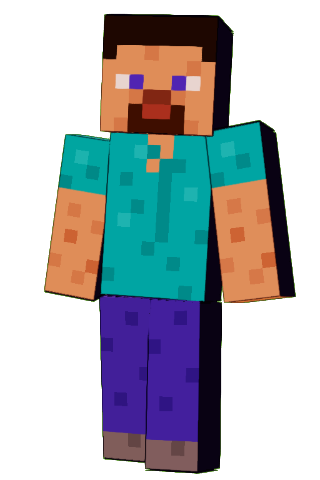
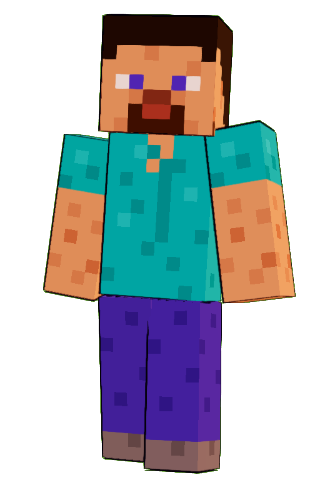
v0.6.1: Looser cloth physics, Steve textured on all sides
- Flowing clothes (Zero's cape, 2B's skirt, Joker's coat tails, lab coat, dress panels,
  long hair, braid, ties, bandana ends) lag behind, swing and flutter with movement;
  airflow at speed can now lift the cape and coat tails backward
- Steve's side faces were turned inward and rendered dark; they now face outward and
  show the hair, skin, sleeves, jeans and shoes

diff --git a/src/designs/zero.js b/src/designs/zero.js
@@ -133,7 +133,7 @@ export function buildZero(K) {
     addCloth(K, {
       anchor: K.hips, rows: 11, cols: 7, grid: panel(sz, 11, 7, 0.975, len + 0.04, 0.1, w1, 0.03), outer, inner,
       colliders: ['legs', 'hips'], colliderOpts: { thigh: 0.084, shin: 0.06, hip: 0.098, hipW: 0.065 }, pad: 0.012,
-      shape: 0.035, maxDev: (t) => 0.01 + 0.3 * t, inertia: 0.5, wind: 0.5, gust: 0.35, stretch: 1, bend: 0.4,
+      shape: 0.014, maxDev: (t) => 0.01 + 0.45 * t, inertia: 0.78, wind: 0.6, gust: 0.4, stretch: 1, bend: 0.35,
     });
   }
   // Umhang von den Schultern bis zu den Waden
@@ -151,8 +151,8 @@ export function buildZero(K) {
     },
     outer: cOuter, inner: cInner,
     pinned: (r, c) => r === 0 || (r === 1 && Math.abs(c - (capeCols - 1) / 2) < 3),
-    colliders: ['torso', 'hips', 'legs', 'shoulders'], colliderOpts: { torso: 0.12, hip: 0.1, hipW: 0.065, thigh: 0.086, shin: 0.062 }, pad: 0.014,
-    shape: 0.02, maxDev: (t) => 0.02 + 0.42 * t, inertia: 0.45, wind: 0.55, gust: 0.4, stretch: 1, bend: 0.3,
+    colliders: ['torso', 'hips', 'legs', 'shoulders', 'head'], colliderOpts: { torso: 0.12, hip: 0.1, hipW: 0.065, thigh: 0.086, shin: 0.062 }, pad: 0.014,
+    shape: 0.009, maxDev: (t) => 0.02 + 0.9 * t, inertia: 0.84, wind: 0.75, gust: 0.45, stretch: 1, bend: 0.6, iterations: 6,
   });
   // Schließe auf der linken Schulter
   P.add(K.chest, RB(0.05, 0.05, 0.016, 0.008), K.mat(C.silver, { rim: 0.45 }), { pos: [-0.14, 1.27, -0.02], rot: [0.3, 0.2, 0.5], hull: 0.002 });
@@ -222,7 +222,7 @@ export function buildZero(K) {
     outer: K.mat('#ffffff', { vertexColors: true, side: THREE.DoubleSide, rim: 0.3, rimColor: '#ffd6f0' }), inner: null,
     pinned: (r) => r <= 1,
     colliders: ['torso', 'shoulders'], colliderOpts: { torso: 0.105 }, pad: 0.018,
-    shape: 0.03, maxDev: (t) => 0.02 + 0.25 * t, inertia: 0.5, wind: 0.45, gust: 0.35, stretch: 1, bend: 0.5,
+    shape: 0.014, maxDev: (t) => 0.02 + 0.4 * t, inertia: 0.74, wind: 0.55, gust: 0.35, stretch: 1, bend: 0.45,
   });
   // zwei lange Strähnen vorne über den Schultern
   for (const s of [-1, 1]) {
@@ -236,7 +236,7 @@ export function buildZero(K) {
       radius: (t, a) => (0.018 - 0.012 * t) * (1 + 0.5 * Math.cos(a) ** 2),
       material: K.mat(C.hair, { rim: 0.3, rimColor: '#ffd6f0' }),
       colliders: ['torso', 'shoulders'], colliderOpts: { torso: 0.1 }, pad: 0.03,
-      pinned: (r) => r === 0, shape: 0.03, maxDev: (t) => 0.03 + 0.2 * t, inertia: 0.5, wind: 0.4, bend: 0.6,
+      pinned: (r) => r === 0, shape: 0.016, maxDev: (t) => 0.03 + 0.3 * t, inertia: 0.7, wind: 0.5, bend: 0.55,
     });
   }
 }

diff --git a/src/cloth.js b/src/cloth.js
@@ -161,7 +161,7 @@ export class Cloth {
       const k = Math.min(1, Math.hypot(ax, vy, az) / 25);
       const g = 1 + this.gust * Math.sin(this.time * 7.3) * Math.sin(this.time * 2.9 + 1.3);
       const wx = ax * this.wind * g, wy = -vy * this.wind * 0.5 * g, wz = az * this.wind * g;
-      const lim = 14 * this.wind;
+      const lim = 26 * this.wind;
       const wl = Math.hypot(wx, wy, wz), ws = wl > lim ? lim / wl : 1;
       const sway = WIND.sway * windGust(this.time) * (WIND.speed / 3.2);
       for (let i = 0; i < n; i++) {
@@ -185,7 +185,7 @@ export class Cloth {
         x[o + 2] += (x[o + 2] - xp[o + 2]) * this.damping + wz * ws * flutter * h * h;
         xp[o] = ox; xp[o + 1] = oy; xp[o + 2] = oz;
         // sanfter Zug zur Ruheform (vom Dauerwind leicht verschoben, mit leichtem Flattern)
-        const sw = sway * dev[i] * (1 + 0.2 * Math.sin(this.time * 3.1 + i * 0.37));
+        const sw = sway * Math.min(dev[i], 0.3) * (1 + 0.2 * Math.sin(this.time * 3.1 + i * 0.37));
         x[o] += (rx + WIND.dir.x * sw - x[o]) * this.shape; x[o + 1] += (ry - x[o + 1]) * this.shape; x[o + 2] += (rz + WIND.dir.z * sw - x[o + 2]) * this.shape;
       }
       for (let it = 0; it < this.iterations; it++) {

diff --git a/src/designs/makima.js b/src/designs/makima.js
@@ -84,7 +84,7 @@ export function buildMakima(K) {
     pinned: (r) => r === 0,
     outer: K.mat(C.tie, { side: THREE.DoubleSide, rim: 0.2 }), inner: null,
     colliders: ['torso'], colliderOpts: { torso: 0.088 }, pad: 0.004,
-    shape: 0.06, maxDev: (t) => 0.03 + 0.12 * t, inertia: 0.5, wind: 0.35, gust: 0.4, stretch: 1, bend: 0.5,
+    shape: 0.035, maxDev: (t) => 0.03 + 0.2 * t, inertia: 0.68, wind: 0.45, gust: 0.4, stretch: 1, bend: 0.5,
   });
 
   // Kopf: goldene Augen mit Ringen, sanftes Lächeln
@@ -127,6 +127,6 @@ export function buildMakima(K) {
     radius: (t, a) => (t > 0.9 ? 0.014 * (1 - (t - 0.9) * 6) + 0.005 : (0.03 - 0.01 * t) * (0.84 + 0.2 * Math.abs(Math.sin(a + t * 40)))),
     material: K.mat(C.hair, { rim: 0.3, rimColor: '#ffb08a' }),
     colliders: ['torso', 'shoulders'], colliderOpts: { torso: 0.1 }, pad: 0.02,
-    pinned: (r) => r === 0, shape: 0.02, maxDev: (t) => 0.06 + 0.3 * t, inertia: 0.45, wind: 0.4, gust: 0.3, bend: 0.6,
+    pinned: (r) => r === 0, shape: 0.011, maxDev: (t) => 0.06 + 0.45 * t, inertia: 0.76, wind: 0.5, gust: 0.3, bend: 0.55,
   });
 }

diff --git a/src/designs/scientist.js b/src/designs/scientist.js
@@ -50,7 +50,7 @@ export function buildScientist(K) {
     },
     colors: stripe, outer: K.mat('#ffffff', { vertexColors: true, side: THREE.DoubleSide, rim: 0.2 }), inner: null,
     colliders: ['torso'], colliderOpts: { torso: 0.124 }, pad: 0.004,
-    shape: 0.06, maxDev: (t) => 0.03 + 0.12 * t, inertia: 0.5, wind: 0.35, gust: 0.4, bend: 0.5,
+    shape: 0.035, maxDev: (t) => 0.03 + 0.2 * t, inertia: 0.68, wind: 0.45, gust: 0.4, bend: 0.5,
   });
 
   // Laborkittel oben: weit, offen mit Revers, Brusttasche, Ärmel bis zum Handgelenk
@@ -87,7 +87,7 @@ export function buildScientist(K) {
     },
     outer: K.mat(C.coat, { side: THREE.FrontSide, rim: 0.25 }), inner: K.mat(C.coatShade, { side: THREE.BackSide, rim: 0 }),
     colliders: ['legs', 'hips'], colliderOpts: { thigh: 0.092, shin: 0.066, hip: 0.104, hipW: 0.078 }, pad: 0.014, clear: T,
-    shape: 0.035, maxDev: (t) => 0.01 + 0.25 * t, inertia: 0.5, wind: 0.5, gust: 0.35, bend: 0.35,
+    shape: 0.014, maxDev: (t) => 0.01 + 0.42 * t, inertia: 0.78, wind: 0.62, gust: 0.38, bend: 0.32,
   });
   hands(K, () => skin, { w: 1.08 });
 

diff --git a/src/designs/steve.js b/src/designs/steve.js
@@ -39,14 +39,14 @@ function pixelBox(w, h, d, faces, fill) {
     const x0 = -X + i * PX, x1 = x0 + PX, y0 = Y - j * PX, y1 = y0 - PX;
     return [[x0, y1, Z], [x1, y1, Z], [x1, y0, Z], [x0, y0, Z]];
   });
-  // rechts (+X) und links (−X): Spalte 0 vorne
+  // rechts (+X) und links (−X): Spalte 0 vorne (Umlaufsinn so, dass die Flächen nach außen zeigen)
   grid(faces.side, d, h, (i, j) => {
     const z0 = -Z + i * PX, z1 = z0 + PX, y0 = Y - j * PX, y1 = y0 - PX;
-    return [[X, y1, z0], [X, y1, z1], [X, y0, z1], [X, y0, z0]];
+    return [[X, y1, z1], [X, y1, z0], [X, y0, z0], [X, y0, z1]];
   });
   grid(faces.sideL ?? faces.side, d, h, (i, j) => {
     const z0 = -Z + i * PX, z1 = z0 + PX, y0 = Y - j * PX, y1 = y0 - PX;
-    return [[-X, y1, z1], [-X, y1, z0], [-X, y0, z0], [-X, y0, z1]];
+    return [[-X, y1, z0], [-X, y1, z1], [-X, y0, z1], [-X, y0, z0]];
   });
   grid(faces.top, w, d, (i, j) => {
     const x0 = X - i * PX, x1 = x0 - PX, z0 = -Z + j * PX, z1 = z0 + PX;

diff --git a/src/designs/twob.js b/src/designs/twob.js
@@ -117,7 +117,7 @@ export function buildTwoB(K) {
     uvs: (r, c) => [(c / cols) * 3, 1 - r / (rows - 1)],
     outer: K.mat('#ffffff', { map: skirtMap, side: THREE.FrontSide, rim: 0.3 }), inner: K.mat(C.blackSoft, { side: THREE.BackSide, rim: 0 }),
     colliders: ['legs', 'hips'], colliderOpts: { thigh: 0.084, shin: 0.058, hip: 0.098, hipW: 0.065 }, pad: 0.012, clear: G.fn,
-    shape: 0.03, maxDev: (t) => 0.01 + 0.24 * t, inertia: 0.5, wind: 0.55, gust: 0.4, stretch: 1, bend: 0.3,
+    shape: 0.011, maxDev: (t) => 0.01 + 0.34 * t, inertia: 0.8, wind: 0.65, gust: 0.4, stretch: 1, bend: 0.28,
   });
   skirtMap.wrapS = THREE.RepeatWrapping;
 

diff --git a/src/designs/makoto.js b/src/designs/makoto.js
@@ -99,7 +99,7 @@ export function buildMakoto(K) {
     },
     outer: K.mat(C.blazer, { side: THREE.FrontSide, rim: 0.4 }), inner: K.mat(C.lining, { side: THREE.BackSide, rim: 0 }),
     colliders: ['legs', 'hips'], colliderOpts: { thigh: 0.088, hip: 0.096, hipW: 0.077 }, pad: 0.012, clear: T,
-    shape: 0.05, maxDev: (t) => 0.01 + 0.12 * t, inertia: 0.5, wind: 0.45, gust: 0.35, stretch: 1, bend: 0.4,
+    shape: 0.028, maxDev: (t) => 0.01 + 0.17 * t, inertia: 0.68, wind: 0.5, gust: 0.35, stretch: 1, bend: 0.4,
   });
   // Armbinde links: Radien am Ärmel gemessen (liegt eng an)
   const aL = A[0], along = 0.115;

diff --git a/src/designs/joker.js b/src/designs/joker.js
@@ -89,7 +89,7 @@ export function buildJoker(K) {
       },
       outer: K.mat(C.coat, { side: THREE.FrontSide, rim: 0.35 }), inner: K.mat(C.lining, { side: THREE.BackSide, rim: 0 }),
       colliders: ['legs', 'hips'], colliderOpts: { thigh: 0.09, shin: 0.064, hip: 0.098, hipW: 0.078 }, pad: 0.012, clear: T,
-      shape: 0.025, maxDev: (t) => 0.01 + 0.4 * t, inertia: 0.45, wind: 0.6, gust: 0.45, stretch: 1, bend: 0.3,
+      shape: 0.009, maxDev: (t) => 0.01 + 0.75 * t, inertia: 0.82, wind: 0.72, gust: 0.45, stretch: 1, bend: 0.28,
     });
   }
 

diff --git a/src/designs/jonesy.js b/src/designs/jonesy.js
@@ -156,7 +156,7 @@ export function buildJonesy(K) {
         return new THREE.Vector3(B.shoulderX + Math.sin(a) * rn * out, by - 0.004 - len * t, Math.cos(a) * rz * out + 0.01 * t);
       },
       outer: bmat, inner: null, colliders: ['arms'], pad: 0.004,
-      shape: 0.05, maxDev: (t) => 0.01 + 0.08 * t, inertia: 0.45, wind: 0.8, gust: 0.6, bend: 0.3,
+      shape: 0.03, maxDev: (t) => 0.01 + 0.12 * t, inertia: 0.7, wind: 0.85, gust: 0.6, bend: 0.3,
     });
   }
 

diff --git a/CHANGELOG.md b/CHANGELOG.md
@@ -3,6 +3,21 @@
 All notable changes to this project. The format is based on
 [Keep a Changelog](https://keepachangelog.com/en/1.1.0/), versioning follows [SemVer](https://semver.org/).
 
+## [0.6.1] – 2026-10-28
+
+Patch: flowing clothes react much more to movement, and Steve is textured on all sides.
+
+### Changed
+- **Looser cloth physics for flowing clothes:** Zero's cape, 2B's skirt, Joker's coat tails, the Scientist's lab coat,
+  Zero's dress panels and long hair, Makima's braid, ties and bandana ends now lag behind, swing and flutter when
+  walking, running, jumping, gliding and swinging instead of moving almost rigidly with the body. At speed the cape
+  and coat tails stream backward; when falling, the skirt and cape lift a little. The gentle breeze stays as subtle
+  as before.
+
+### Fixed
+- **Steve's sides:** the left and right faces of his head, arms, torso and legs were turned inward and showed up as
+  dark, untextured surfaces. They now show the hair, skin, sleeves, jeans and shoes like the original.
+
 ## [0.6.0] – 2026-10-28
 
 Ten playable characters with a character select screen, cloth physics for coats, capes, skirts, ties and braids,
@@ -256,6 +271,7 @@ First playable prototype: a sandbox without levels or goals for testing swinging
 - **HUD and tools:** crosshair with range indicator, speed, height, gas and state; tuning menu (G),
   slow motion (T), screenshot (P); start script with a local PowerShell server.
 
+[0.6.1]: https://github.com/ILIuIcIaI/enterhaken-prototyp/releases/tag/v0.6.1
 [0.6.0]: https://github.com/ILIuIcIaI/enterhaken-prototyp/releases/tag/v0.6.0
 [0.5.2]: https://github.com/ILIuIcIaI/enterhaken-prototyp/releases/tag/v0.5.2
 [0.5.1]: https://github.com/ILIuIcIaI/enterhaken-prototyp/releases/tag/v0.5.1

diff --git a/README.md b/README.md
@@ -4,7 +4,7 @@ Third-person prototype: swing, glide and wall-run with two grappling hooks throu
 dystopian high-rise city on an island at dusk. Ten playable characters, picked on the start screen and purely
 cosmetic. No levels, no goals – just a sandbox for testing feel and physics.
 
-**Current version: 0.6.0** · see [CHANGELOG.md](CHANGELOG.md) for changes
+**Current version: 0.6.1** · see [CHANGELOG.md](CHANGELOG.md) for changes
 
 ![The ten playable characters](docs/screenshots/figuren.png)
 
